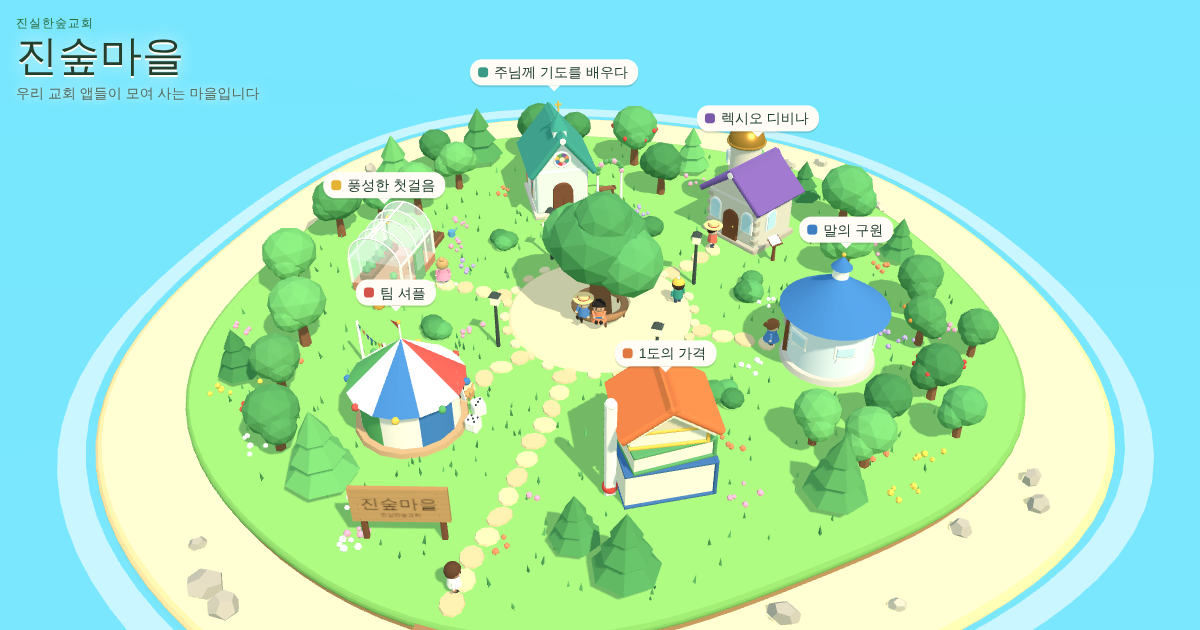
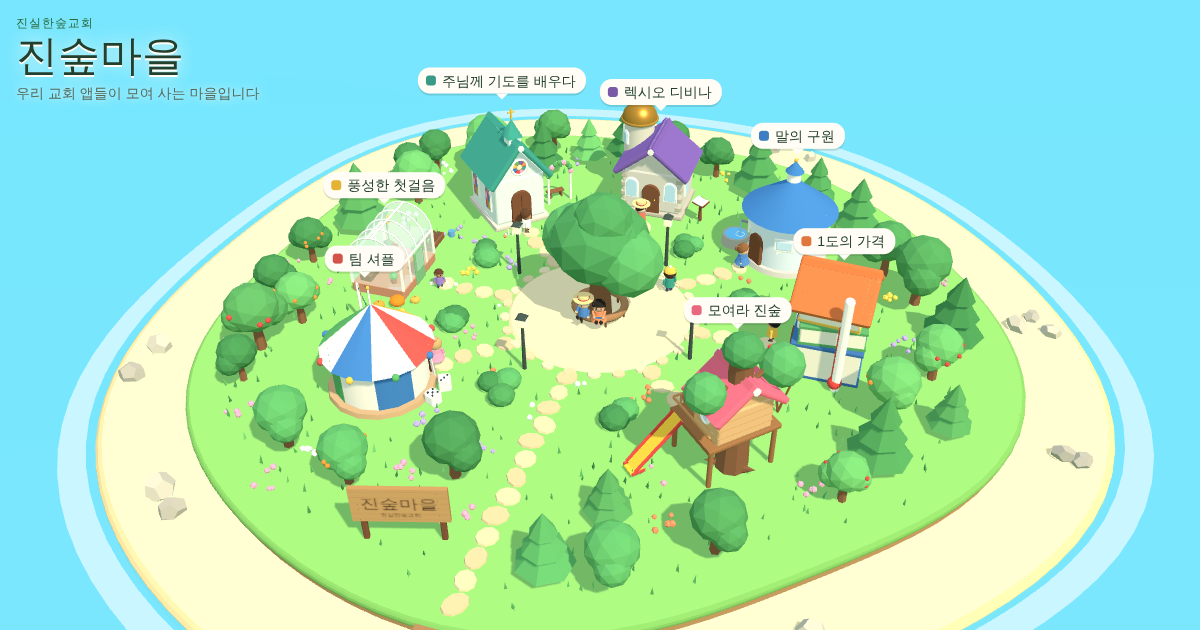
진숲마을: 일곱 번째 집, 모여라 진숲 어린이 마을 (나무 위 오두막)
- 어린이 마을 집: 사다리, 미끄럼틀, 그네, 난간에 어린이 마을 아이콘
- 집 일곱 채를 45도 간격으로 다시 배치, 입구 길은 비워 둠
- 이름표가 겹치면 위로 비켜 서게 함
- 공유 미리보기 이미지 새로 찍음

Claude-Session: https://claude.ai/code/session_016qMhHNXU6CNLhzmqZ3tJcF

diff --git a/index.html b/index.html
@@ -235,22 +235,26 @@ var coarse = matchMedia('(pointer: coarse)').matches;
 var APPS = [
   {name:'렉시오 디비나', tag:'말씀과 침묵의 기도',
    desc:'성경 본문을 고르고 침묵, 읽기, 묵상, 기도, 관상의 시간을 정해 두면 타이머와 싱잉볼 소리에 맞춰 말씀 앞에 머물 수 있습니다. 센터링 기도도 함께 들어 있습니다.',
-   url:'https://dufenekffksxm-design.github.io/lectio-divina/', kind:'web', roof:'#7a5aa8', wall:'#fbf1e2', style:'monastery', house:'싱잉볼을 얹은 탑이 있는 돌집, 문 앞에는 펼쳐진 책'},
+   url:'https://dufenekffksxm-design.github.io/lectio-divina/', kind:'web', roof:'#7a5aa8', wall:'#fbf1e2', style:'monastery', house:'싱잉볼을 얹은 탑이 있는 돌집, 문 앞에는 펼쳐진 책', angle:0},
   {name:'말의 구원', tag:'깊은 샘에서 흘러나오는 말',
    desc:'2026년 10월 설교 시리즈와 함께 4주 동안 걷는 워크북입니다.',
-   url:'https://najh100-a11y.github.io/word-training/', kind:'web', roof:'#3d7fc0', wall:'#e9f1f6', style:'spring', house:'샘물이 흘러나오는 둥근 집, 창문은 말풍선 모양'},
+   url:'https://najh100-a11y.github.io/word-training/', kind:'web', roof:'#3d7fc0', wall:'#e9f1f6', style:'spring', house:'샘물이 흘러나오는 둥근 집, 창문은 말풍선 모양', angle:45},
   {name:'1도의 가격', tag:'책읽기 모임, 함께 읽기',
    desc:'북클럽에서 읽은 내용의 요약과 나눔판, 토론 질문을 휴대폰으로 함께 보는 앱입니다.',
-   url:'https://najh100-a11y.github.io/slow-burn/', kind:'web', roof:'#e0773f', wall:'#fdf3e6', style:'books', house:'책을 쌓아 올린 집, 지붕은 엎어 둔 책, 옆에는 커다란 온도계'},
+   url:'https://najh100-a11y.github.io/slow-burn/', kind:'web', roof:'#e0773f', wall:'#fdf3e6', style:'books', house:'책을 쌓아 올린 집, 지붕은 엎어 둔 책, 옆에는 커다란 온도계', angle:90},
+  {name:'모여라 진숲 어린이 마을', tag:'말씀을 외우고 함께 노는 마을',
+   desc:'교회 어린이들이 직접 꾸민 주민으로 들어와 말씀을 외우고, 묵상하고, 필사하는 3D 마을입니다. 함께 접속한 친구들과 이야기하고, 낚시, 오목, 그림, 요리 놀이도 합니다.',
+   note:'처음 한 번은 교회에서 받은 가입 코드로 가입합니다. 태블릿에서 "홈 화면에 추가"를 누르면 앱 아이콘으로 쓸 수 있습니다.',
+   url:'https://najh100-a11y.github.io/village/kids/', kind:'web', kindLabel:'어린이용 웹앱', label:'모여라 진숲', roof:'#e8697d', wall:'#e2b17a', style:'treehouse', house:'미끄럼틀과 그네가 달린 나무 위 오두막, 난간에는 어린이 마을 아이콘', angle:135},
   {name:'팀 셔플', tag:'조 편성 추첨 프로그램',
    desc:'교회 모임에서 조를 고르게 나눠 주는 추첨 프로그램입니다. Windows와 Mac에 설치해서 씁니다.',
-   url:'https://github.com/najh100-a11y/team-shuffle/releases/tag/v1.0.0', kind:'desktop', roof:'#d4544c', roof2:'#3f7fbf', wall:'#f9ede4', style:'tent', house:'네 가지 팀 색깔로 칠한 천막, 문 앞에는 주사위'},
+   url:'https://github.com/najh100-a11y/team-shuffle/releases/tag/v1.0.0', kind:'desktop', roof:'#d4544c', roof2:'#3f7fbf', wall:'#f9ede4', style:'tent', house:'네 가지 팀 색깔로 칠한 천막, 문 앞에는 주사위', angle:225},
   {name:'풍성한 첫걸음', tag:'풍성한 삶으로 한 걸음씩 함께',
    desc:'풍성한 삶으로 한 걸음씩 함께 내딛도록 돕는 앱입니다.',
-   url:'https://hanabokdna2026-dot.github.io/firststep/', kind:'web', roof:'#e5b333', wall:'#fbf6e6', style:'greenhouse', house:'새싹이 자라는 온실, 문 앞에 작은 발자국'},
+   url:'https://hanabokdna2026-dot.github.io/firststep/', kind:'web', roof:'#e5b333', wall:'#fbf6e6', style:'greenhouse', house:'새싹이 자라는 온실, 문 앞에 작은 발자국', angle:270},
   {name:'주님께 기도를 배우다', tag:'기도 앱',
    desc:'주님께 기도를 배우는 앱입니다.',
-   url:'https://dufenekffksxm-design.github.io/prayer-app/', kind:'web', roof:'#3a9a87', wall:'#e9f3ea', style:'chapel', house:'스테인드글라스가 빛나는 작은 기도처'}
+   url:'https://dufenekffksxm-design.github.io/prayer-app/', kind:'web', roof:'#3a9a87', wall:'#e9f3ea', style:'chapel', house:'스테인드글라스가 빛나는 작은 기도처', angle:315}
 ];
 var NOTE_WEB = '열린 화면에서 공유 버튼이나 브라우저 메뉴의 "홈 화면에 추가"를 누르면 휴대폰에서 앱처럼 쓸 수 있습니다.';
 var NOTE_DESK = '내려받는 곳에 Windows용과 Mac용(애플 실리콘, 인텔) 설치 파일이 있습니다. 처음 실행할 때 보안 경고가 나오면 저장소 안내문(README)을 따르면 됩니다.';
@@ -281,12 +285,12 @@ $('#homeBtn').addEventListener('click', function(){ setList(false); if(!card.hid
 function showCard(i){
   var a = APPS[i]; sel = i;
   card.style.setProperty('--c', a.roof);
-  $('#cardKind').textContent = a.kind === 'web' ? '휴대폰 웹앱' : 'Windows · Mac 프로그램';
+  $('#cardKind').textContent = a.kindLabel || (a.kind === 'web' ? '휴대폰 웹앱' : 'Windows · Mac 프로그램');
   $('#cardName').textContent = a.name;
   $('#cardTag').textContent = a.tag;
   $('#cardDesc').textContent = a.desc;
   $('#cardHouse').textContent = a.house;
-  $('#cardNote').textContent = a.kind === 'web' ? NOTE_WEB : NOTE_DESK;
+  $('#cardNote').textContent = a.note || (a.kind === 'web' ? NOTE_WEB : NOTE_DESK);
   var go = $('#cardGo'); go.href = a.url;
   go.querySelector('span').textContent = a.kind === 'web' ? '들어가기' : '내려받는 곳으로';
   card.hidden = false; hint.hidden = true;
@@ -732,10 +736,100 @@ function init3D(){
     return {group:g, glows:[stained], top:sy + 2.25};
   };
 
+  /* Kids' village: a treehouse with a ladder, a slide and a swing, the app's own logo hung on the porch */
+  BUILD.treehouse = function(app){
+    var g = new THREE.Group(), glass = glowMat('#cfe9f6', '#ffd36b');
+    var bark = M('#86593a'), wood = M('#c98f55', true), woodD = M('#9c6a3e', true), plank = M(app.wall, true);
+    var roof = M(app.roof, true), red = M('#e5483f', true), yellow = M('#f6c53d', true);
+    var PY = 1.75, ph = 0.18, floor = PY + ph / 2;
+    /* trunk rising through the cabin, with roots */
+    add(g, new THREE.CylinderGeometry(0.4, 0.62, 5.0, 9), bark, 0, 2.5, -0.45);
+    [0.4, 2.5, 4.4].forEach(function(a){
+      var rt = add(g, new THREE.ConeGeometry(0.28, 0.9, 6), bark, Math.cos(a) * 0.62, 0.18, -0.45 + Math.sin(a) * 0.62);
+      rt.rotation.set(Math.sin(a) * 1.15, 0, -Math.cos(a) * 1.15);
+    });
+    /* platform on four posts */
+    add(g, rbox(3.0, ph, 2.6, 0.05), woodD, 0, PY, 0.15);
+    [[-1.32, -1.0], [1.32, -1.0], [-1.32, 1.3], [1.32, 1.3]].forEach(function(p){ add(g, new THREE.CylinderGeometry(0.09, 0.1, PY, 8), woodD, p[0], PY / 2, p[1]); });
+    /* the cabin */
+    var cw = 2.2, ch = 1.35, cd = 1.6, cz = -0.25, top = floor + ch;
+    add(g, rbox(cw, ch, cd, 0.08), plank, 0, floor + ch / 2, cz);
+    for(var k = 1; k < 4; k++) add(g, new THREE.BoxGeometry(cw + 0.02, 0.03, cd + 0.02), M('#cf9c63', true), 0, floor + k * ch / 4, cz, false);
+    var RH = holder(g, 0, 0, cz, 0);
+    gableRoof(RH, cw, cd, top, 0.85, roof, roof, plank);
+    add(g, archGeo(0.6, 1.0, 0.12), M('#7a4b30', true), 0.42, floor, cz + cd / 2 + 0.02);
+    add(g, new THREE.SphereGeometry(0.045, 8, 6), M(GOLD_C, true), 0.6, floor + 0.5, cz + cd / 2 + 0.1, false);
+    roundWin(g, -0.48, floor + 0.78, cz + cd / 2 + 0.03, 0, 0.22, glass);
+    roundWin(g, cw / 2 + 0.03, floor + 0.78, cz, Math.PI / 2, 0.22, glass);
+    roundWin(g, -cw / 2 - 0.03, floor + 0.78, cz, -Math.PI / 2, 0.22, glass);
+    /* porch rail, leaving a gap for the ladder */
+    var railZ = 1.4, x0 = -0.72, x1 = 1.42;
+    add(g, rbox(x1 - x0, 0.07, 0.07, 0.02), wood, (x0 + x1) / 2, floor + 0.5, railZ, false);
+    for(var bx = x0; bx <= x1 + 0.001; bx += 0.36) add(g, new THREE.BoxGeometry(0.06, 0.5, 0.06), wood, bx, floor + 0.25, railZ, false);
+    add(g, rbox(0.07, 0.07, 2.4, 0.02), wood, x1, floor + 0.5, 0.2, false);
+    /* the app's own icon on the porch, with a painted fallback */
+    var signMat = new THREE.MeshStandardMaterial({color:'#fffaf0', roughness:0.8});
+    function paintSign(){
+      var c = document.createElement('canvas'); c.width = c.height = 256; var x = c.getContext('2d');
+      x.fillStyle = '#7cc46a'; x.fillRect(0, 0, 256, 256);
+      x.fillStyle = '#fff4c9'; x.beginPath(); x.arc(128, 128, 104, 0, Math.PI * 2); x.fill();
+      x.fillStyle = '#c0392b'; x.textAlign = 'center'; x.font = '62px Jua, "Gowun Dodum", sans-serif'; x.fillText('모여라', 128, 120);
+      x.fillStyle = '#2b693d'; x.fillText('진숲', 128, 182);
+      var t = new THREE.CanvasTexture(c); t.encoding = THREE.sRGBEncoding; signMat.map = t; signMat.color.set('#ffffff'); signMat.needsUpdate = true;
+    }
+    new THREE.TextureLoader().load('kids/icons/logo-256.png', function(t){ t.encoding = THREE.sRGBEncoding; signMat.map = t; signMat.color.set('#ffffff'); signMat.needsUpdate = true; }, undefined, paintSign);
+    add(g, rbox(0.74, 0.74, 0.07, 0.05), woodD, 0.55, floor + 0.3, railZ + 0.06, false);
+    add(g, new THREE.PlaneGeometry(0.64, 0.64), signMat, 0.55, floor + 0.3, railZ + 0.1, false);
+    /* ladder leaning against the porch */
+    var LD = holder(g, -1.02, 0, railZ + 0.62, 0); LD.rotation.x = -0.32;
+    var lh = 1.98;
+    [-0.2, 0.2].forEach(function(lx){ add(LD, new THREE.CylinderGeometry(0.045, 0.045, lh, 6), woodD, lx, lh / 2, 0); });
+    for(var r = 0.25; r < lh; r += 0.3){ var rung = add(LD, new THREE.CylinderGeometry(0.035, 0.035, 0.42, 6), wood, 0, r, 0, false); rung.rotation.z = Math.PI / 2; }
+    /* slide off the right side of the porch */
+    var SL = holder(g, 1.5, floor + 0.02, 0.85, 0); SL.rotation.z = -0.72;
+    add(SL, rbox(2.45, 0.06, 0.62, 0.03), yellow, 1.22, 0, 0);
+    [-0.31, 0.31].forEach(function(sz){ add(SL, rbox(2.45, 0.16, 0.06, 0.03), red, 1.22, 0.07, sz, false); });
+    add(g, rbox(0.55, 0.06, 0.62, 0.03), yellow, 3.25, 0.16, 0.85);
+    [-0.31, 0.31].forEach(function(sz){ add(g, rbox(0.55, 0.14, 0.06, 0.03), red, 3.25, 0.22, 0.85 + sz, false); });
+    /* leafy crown, kept behind the roof so the cabin stays in view */
+    add(g, new THREE.IcosahedronGeometry(0.72, 1), M('#4c9a57'), 0, 5.25, -0.45).scale.set(1, 0.8, 1);
+    add(g, new THREE.IcosahedronGeometry(0.8, 1), M('#5cae63'), -1.65, 4.05, -0.55);
+    add(g, new THREE.IcosahedronGeometry(0.72, 1), M('#5cae63'), 1.6, 4.25, -0.75);
+    [[-1.95, 4.3, -0.2], [-1.4, 4.6, -0.1], [1.85, 4.45, -0.35], [1.35, 4.75, -0.5], [0.3, 5.6, -0.2]].forEach(function(q){ add(g, new THREE.SphereGeometry(0.09, 8, 6), M('#e5483f', true), q[0], q[1], q[2], false); });
+    [-1, 1].forEach(function(s){ var br = add(g, new THREE.CylinderGeometry(0.08, 0.13, 1.3, 6), bark, s * 0.75, 3.95, -0.5); br.rotation.z = -s * 1.05; });
+    /* bunting from the roof to the crown */
+    var cols = ['#e5483f', '#f6c53d', '#5aae63', '#3f7fbf', '#f39bb6'];
+    var tri = new THREE.Shape(); tri.moveTo(-0.09, 0); tri.lineTo(0.09, 0); tri.lineTo(0, -0.2); tri.closePath();
+    var triG = new THREE.ShapeGeometry(tri);
+    for(var b = 0; b < 7; b++){
+      var t2 = (b + 0.5) / 7, fx = -1.25 + 2.5 * t2, fy = top + 0.18 - Math.sin(t2 * Math.PI) * 0.18;
+      var f = add(g, triG, new THREE.MeshStandardMaterial({color:cols[b % cols.length], roughness:0.9, side:THREE.DoubleSide}), fx, fy, cz + cd / 2 + 0.38, false);
+      flags.push(f);
+    }
+    /* a swing set to the left */
+    var S = holder(g, -2.45, 0, 1.0, 0), sh = 1.75;
+    add(S, new THREE.CylinderGeometry(0.05, 0.05, 1.35, 8), woodD, 0, sh, 0).rotation.z = Math.PI / 2;
+    [-0.62, 0.62].forEach(function(sx){
+      [-1, 1].forEach(function(s){
+        var leg = add(S, new THREE.CylinderGeometry(0.045, 0.05, 1.83, 6), woodD, sx, sh / 2, s * 0.25);
+        leg.rotation.x = s * 0.28;
+      });
+    });
+    var swing = holder(S, 0, sh - 0.03, 0, 0);
+    [-0.22, 0.22].forEach(function(rx){ add(swing, new THREE.CylinderGeometry(0.014, 0.014, 1.22, 5), M('#e8dcc0', true), rx, -0.61, 0, false); });
+    add(swing, rbox(0.56, 0.06, 0.26, 0.02), red, 0, -1.24, 0);
+    anims.push(function(t){ swing.rotation.x = Math.sin(t * 1.7) * 0.22; });
+    /* hopscotch chalk squares by the ladder */
+    ['#f6c53d', '#9fd3f0', '#f39bb6', '#b7e08a'].forEach(function(c, k){
+      add(g, new THREE.BoxGeometry(0.42, 0.02, 0.42), M(c, true), -1.75 + (k % 2) * 0.0, 0.02, 2.25 + k * 0.48, false);
+    });
+    return {group:g, glows:[glass], top:5.7};
+  };
+
   /* place the houses around the plaza */
   var R = 9.6, houses = [];
   APPS.forEach(function(app, i){
-    var ang = (30 + 60 * i) * Math.PI / 180;
+    var ang = app.angle * Math.PI / 180;
     var x = R * Math.sin(ang), z = -R * Math.cos(ang);
     var built = BUILD[app.style](app);
     var g = built.group;
@@ -791,7 +885,7 @@ function init3D(){
   })();
 
   /* lamps around the plaza */
-  [45, 135, 225, 315].forEach(function(deg){
+  [22.5, 112.5, 202.5, 292.5].forEach(function(deg){
     var a = deg * Math.PI / 180, l = new THREE.Group(); l.position.set(Math.sin(a) * 4.7, G, -Math.cos(a) * 4.7); scene.add(l);
     add(l, new THREE.CylinderGeometry(0.06, 0.09, 2.2, 8), M('#3b4a44', true), 0, 1.1, 0);
     add(l, rbox(0.34, 0.4, 0.34, 0.05), new THREE.MeshStandardMaterial({color:'#fff3cf', emissive:'#ffd98a', emissiveIntensity:0.45, roughness:0.6}), 0, 2.35, 0, false);
@@ -841,8 +935,8 @@ function init3D(){
     placed.push({x:tx, z:tz, r:0.95 * ts}); nTrees++;
   }
   /* bushes between houses */
-  [0, 60, 120, 240, 300].forEach(function(deg){
-    var a = deg * Math.PI / 180, bx = Math.sin(a) * 7.0, bz = -Math.cos(a) * 7.0;
+  [22.5, 67.5, 157.5, 202.5, 247.5, 292.5, 337.5].forEach(function(deg){
+    var a = deg * Math.PI / 180, bx = Math.sin(a) * 6.4, bz = -Math.cos(a) * 6.4;
     if(onPath(bx, bz, 0.8)) return;
     for(var k = 0; k < 3; k++){
       var b = add(scene, new THREE.IcosahedronGeometry(0.45 + rand() * 0.2, 1), M(greens[k % greens.length]), bx + (rand() - 0.5) * 1.0, G + 0.3, bz + (rand() - 0.5) * 1.0);
@@ -908,19 +1002,19 @@ function init3D(){
   function node(x, z, kind, extra){ NODES.push(Object.assign({x:x, z:z, kind:kind}, extra || {})); ADJ.push([]); return NODES.length - 1; }
   function link(a, b){ ADJ[a].push(b); ADJ[b].push(a); }
   var RING = 3.2, ring = [];
-  for(var rn = 0; rn < 12; rn++){ var ra0 = rn * Math.PI / 6; ring.push(node(Math.sin(ra0) * RING, -Math.cos(ra0) * RING, 'ring')); }
-  for(rn = 0; rn < 12; rn++) link(ring[rn], ring[(rn + 1) % 12]);
+  for(var rn = 0; rn < 16; rn++){ var ra0 = rn * Math.PI / 8; ring.push(node(Math.sin(ra0) * RING, -Math.cos(ra0) * RING, 'ring')); }
+  for(rn = 0; rn < 16; rn++) link(ring[rn], ring[(rn + 1) % 16]);
   var doorNodes = [];
   houses.forEach(function(h, i){
     var ux = h.x / R, uz = h.z / R;
     var mid = node(ux * 5.6, uz * 5.6, 'path');
     var dn = node(ux * 7.3, uz * 7.3, 'door', {ux:ux, uz:uz});
-    link(ring[1 + 2 * i], mid); link(mid, dn); doorNodes.push(dn);
+    link(ring[Math.round(APPS[i].angle / 22.5) % 16], mid); link(mid, dn); doorNodes.push(dn);
   });
   var gateMid = node(0, (4.4 + southEdge - 0.6) / 2, 'path');
   var gate = node(0, southEdge - 1.1, 'gate');
-  link(ring[6], gateMid); link(gateMid, gate);
-  var DESTS = doorNodes.concat([gate, gate, ring[0], ring[4], ring[8]]);
+  link(ring[8], gateMid); link(gateMid, gate);
+  var DESTS = doorNodes.concat([gate, gate, ring[2], ring[6], ring[10], ring[14]]);
 
   function route(a, b){
     var prev = {}, q = [a]; prev[a] = -1;
@@ -1134,7 +1228,7 @@ function init3D(){
     var b = document.createElement('button'); b.type = 'button'; b.className = 'label';
     b.style.setProperty('--c', a.roof);
     b.innerHTML = '<span class="dot"></span><span></span>';
-    b.lastChild.textContent = a.name;
+    b.lastChild.textContent = a.label || a.name;
     b.addEventListener('click', function(){ select(i); });
     labelsEl.appendChild(b); return b;
   });
@@ -1216,15 +1310,32 @@ function init3D(){
 
   /* loop */
   var clock = new THREE.Clock(), T = 0, v = new THREE.Vector3();
+  var lp = [];
   function placeLabels(){
     var W = innerWidth, H = innerHeight;
+    lp.length = 0;
     for(var i = 0; i < houses.length; i++){
-      var h = houses[i], el = labelEls[i];
+      var h = houses[i];
       v.set(h.x, h.group.position.y + h.top + 0.35, h.z).project(camera);
-      if(v.z > 1 || v.z < -1){ el.style.visibility = 'hidden'; continue; }
+      if(v.z > 1 || v.z < -1){ labelEls[i].style.visibility = 'hidden'; continue; }
+      var w = labelW[i] || 0, hw = w / 2 + 8;
+      lp.push({i:i, x:Math.max(hw, Math.min(W - hw, (v.x * 0.5 + 0.5) * W)), y:(-v.y * 0.5 + 0.5) * H, w:w});
+    }
+    /* nearer (lower) labels keep their place; others step up out of the way */
+    lp.sort(function(a, b){ return b.y - a.y; });
+    for(var k = 0; k < lp.length; k++){
+      var L = lp[k];
+      for(var tries = 0; tries < 4; tries++){
+        var hit = false;
+        for(var j = 0; j < k; j++){
+          var P = lp[j];
+          if(Math.abs(L.x - P.x) < (L.w + P.w) / 2 + 6 && Math.abs(L.y - P.y) < 30){ L.y = P.y - 31; hit = true; }
+        }
+        if(!hit) break;
+      }
+      var el = labelEls[L.i];
       el.style.visibility = '';
-      var hw = (labelW[i] || 0) / 2 + 8, sx = Math.max(hw, Math.min(W - hw, (v.x * 0.5 + 0.5) * W));
-      el.style.transform = 'translate(' + sx.toFixed(1) + 'px,' + ((-v.y * 0.5 + 0.5) * H).toFixed(1) + 'px) translate(-50%,-100%)';
+      el.style.transform = 'translate(' + L.x.toFixed(1) + 'px,' + L.y.toFixed(1) + 'px) translate(-50%,-100%)';
     }
   }
   function loop(){
